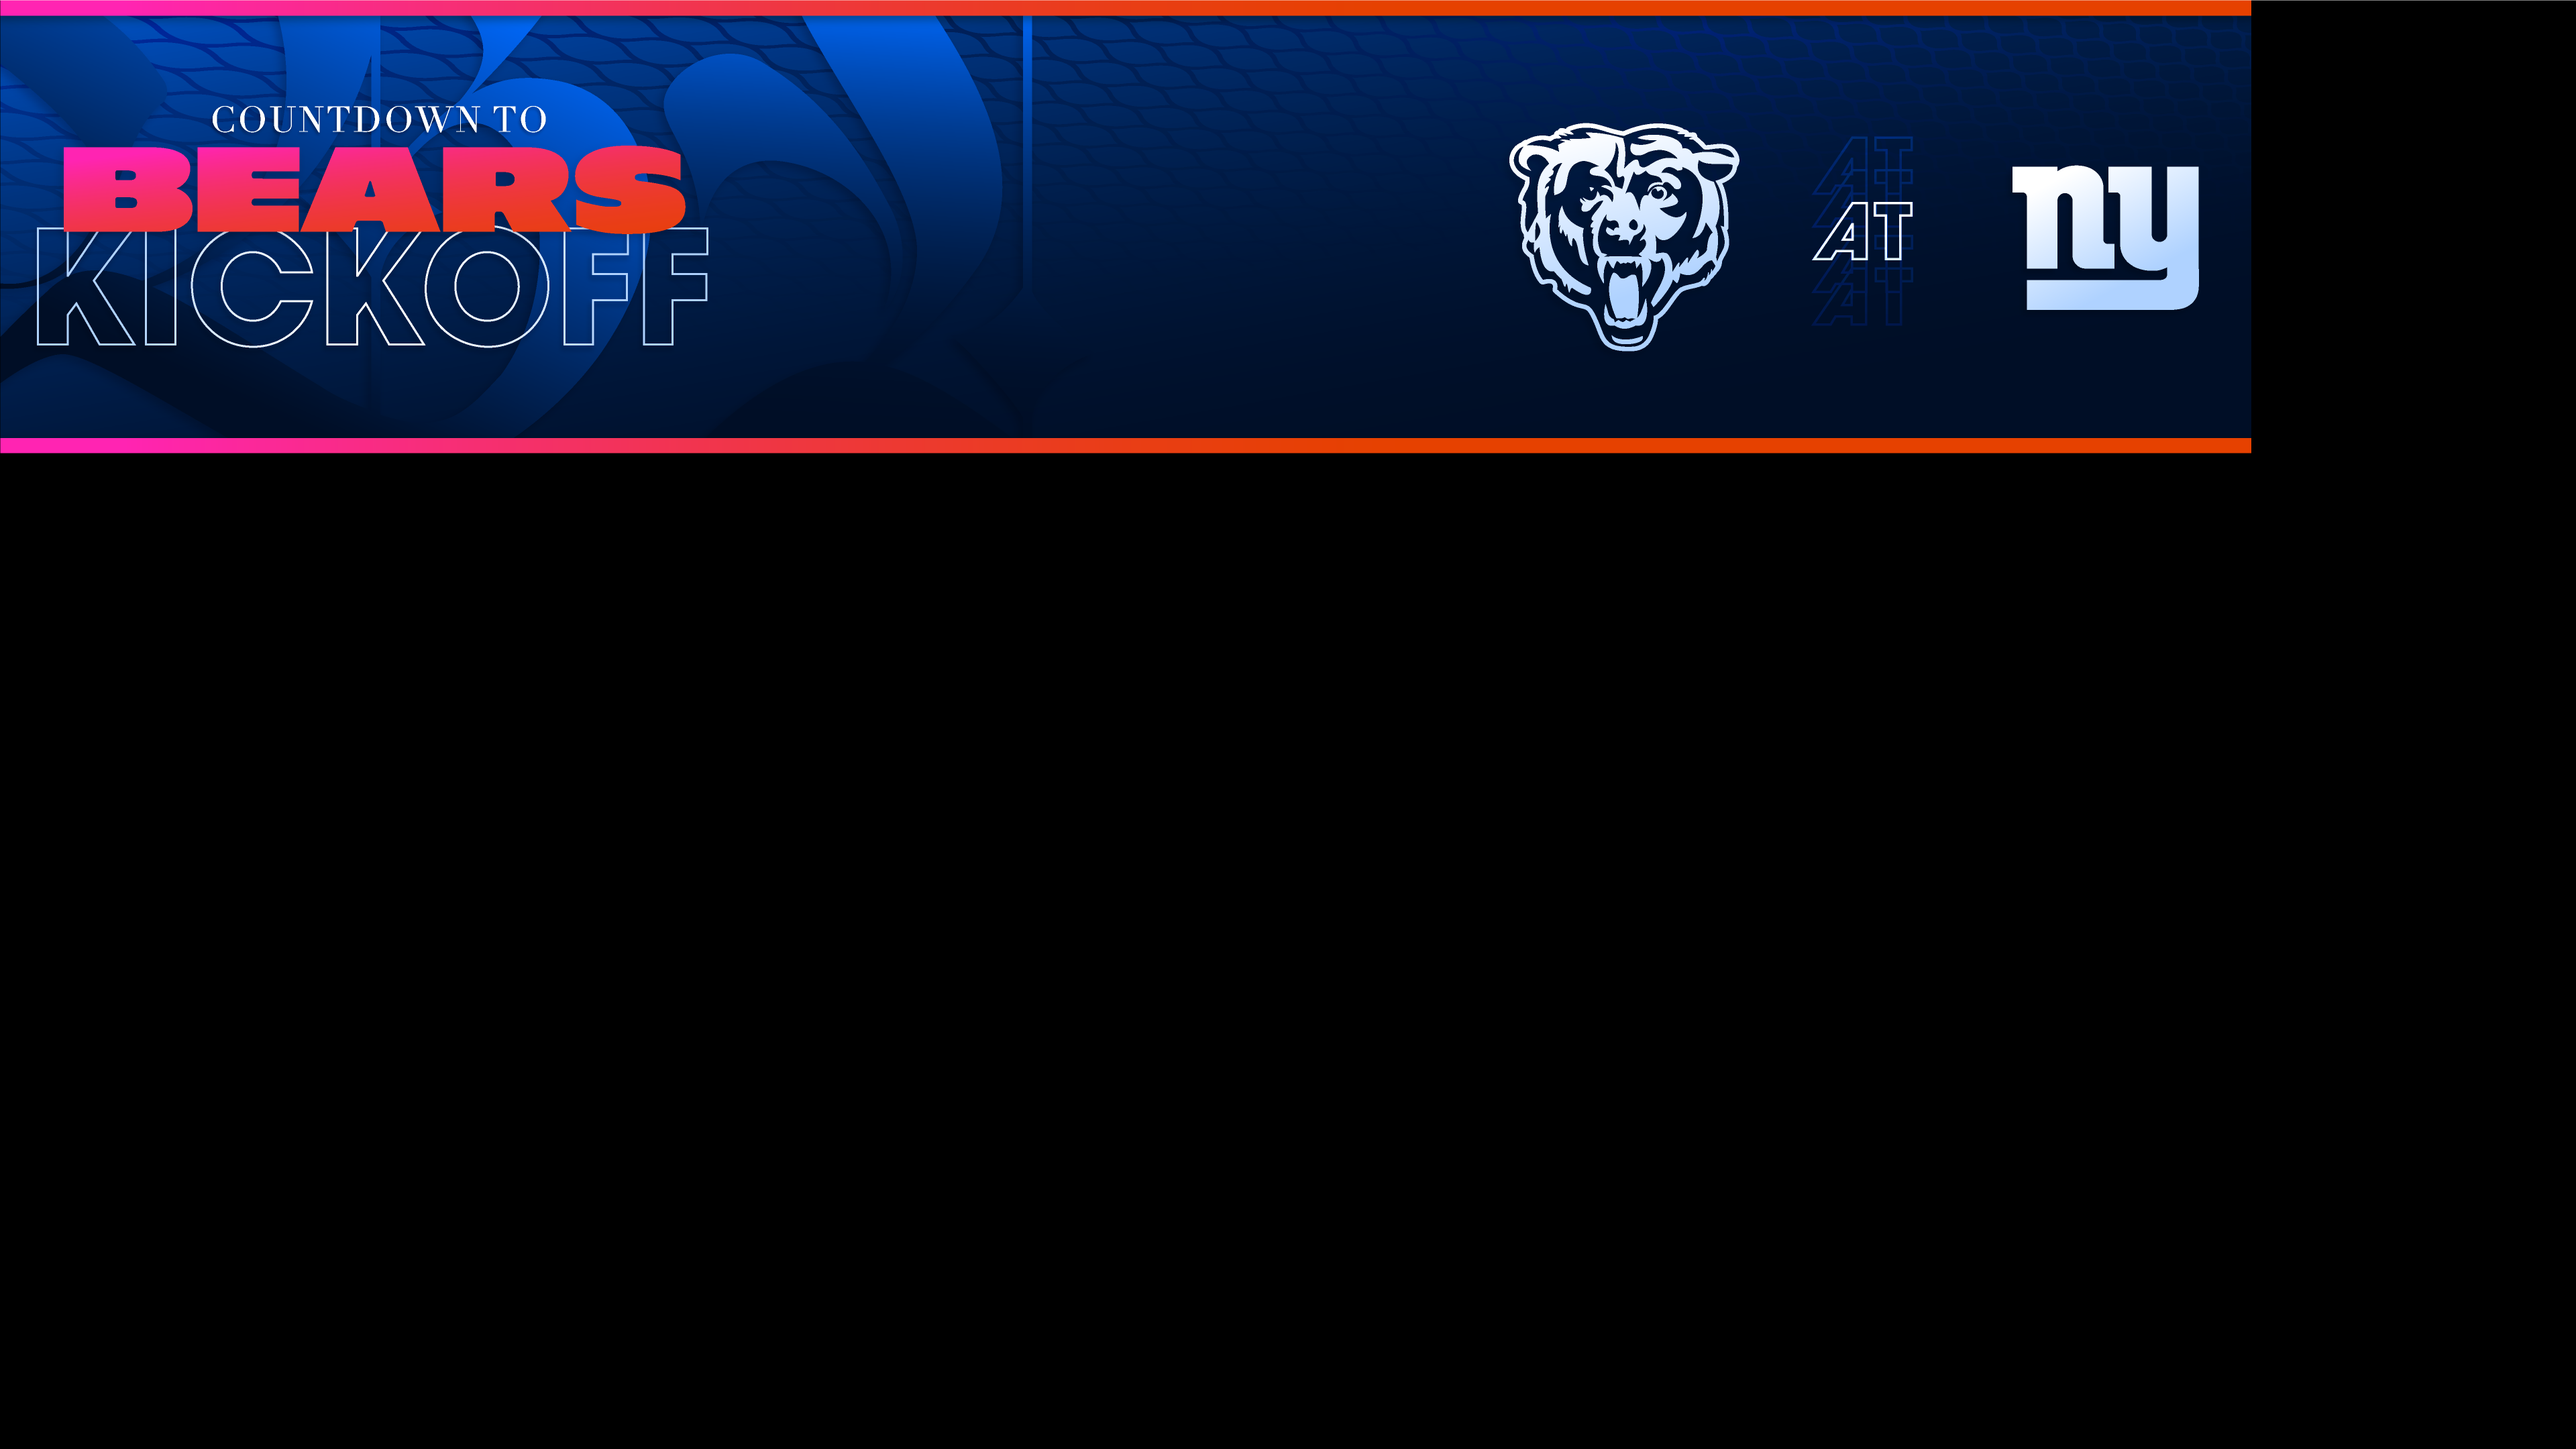
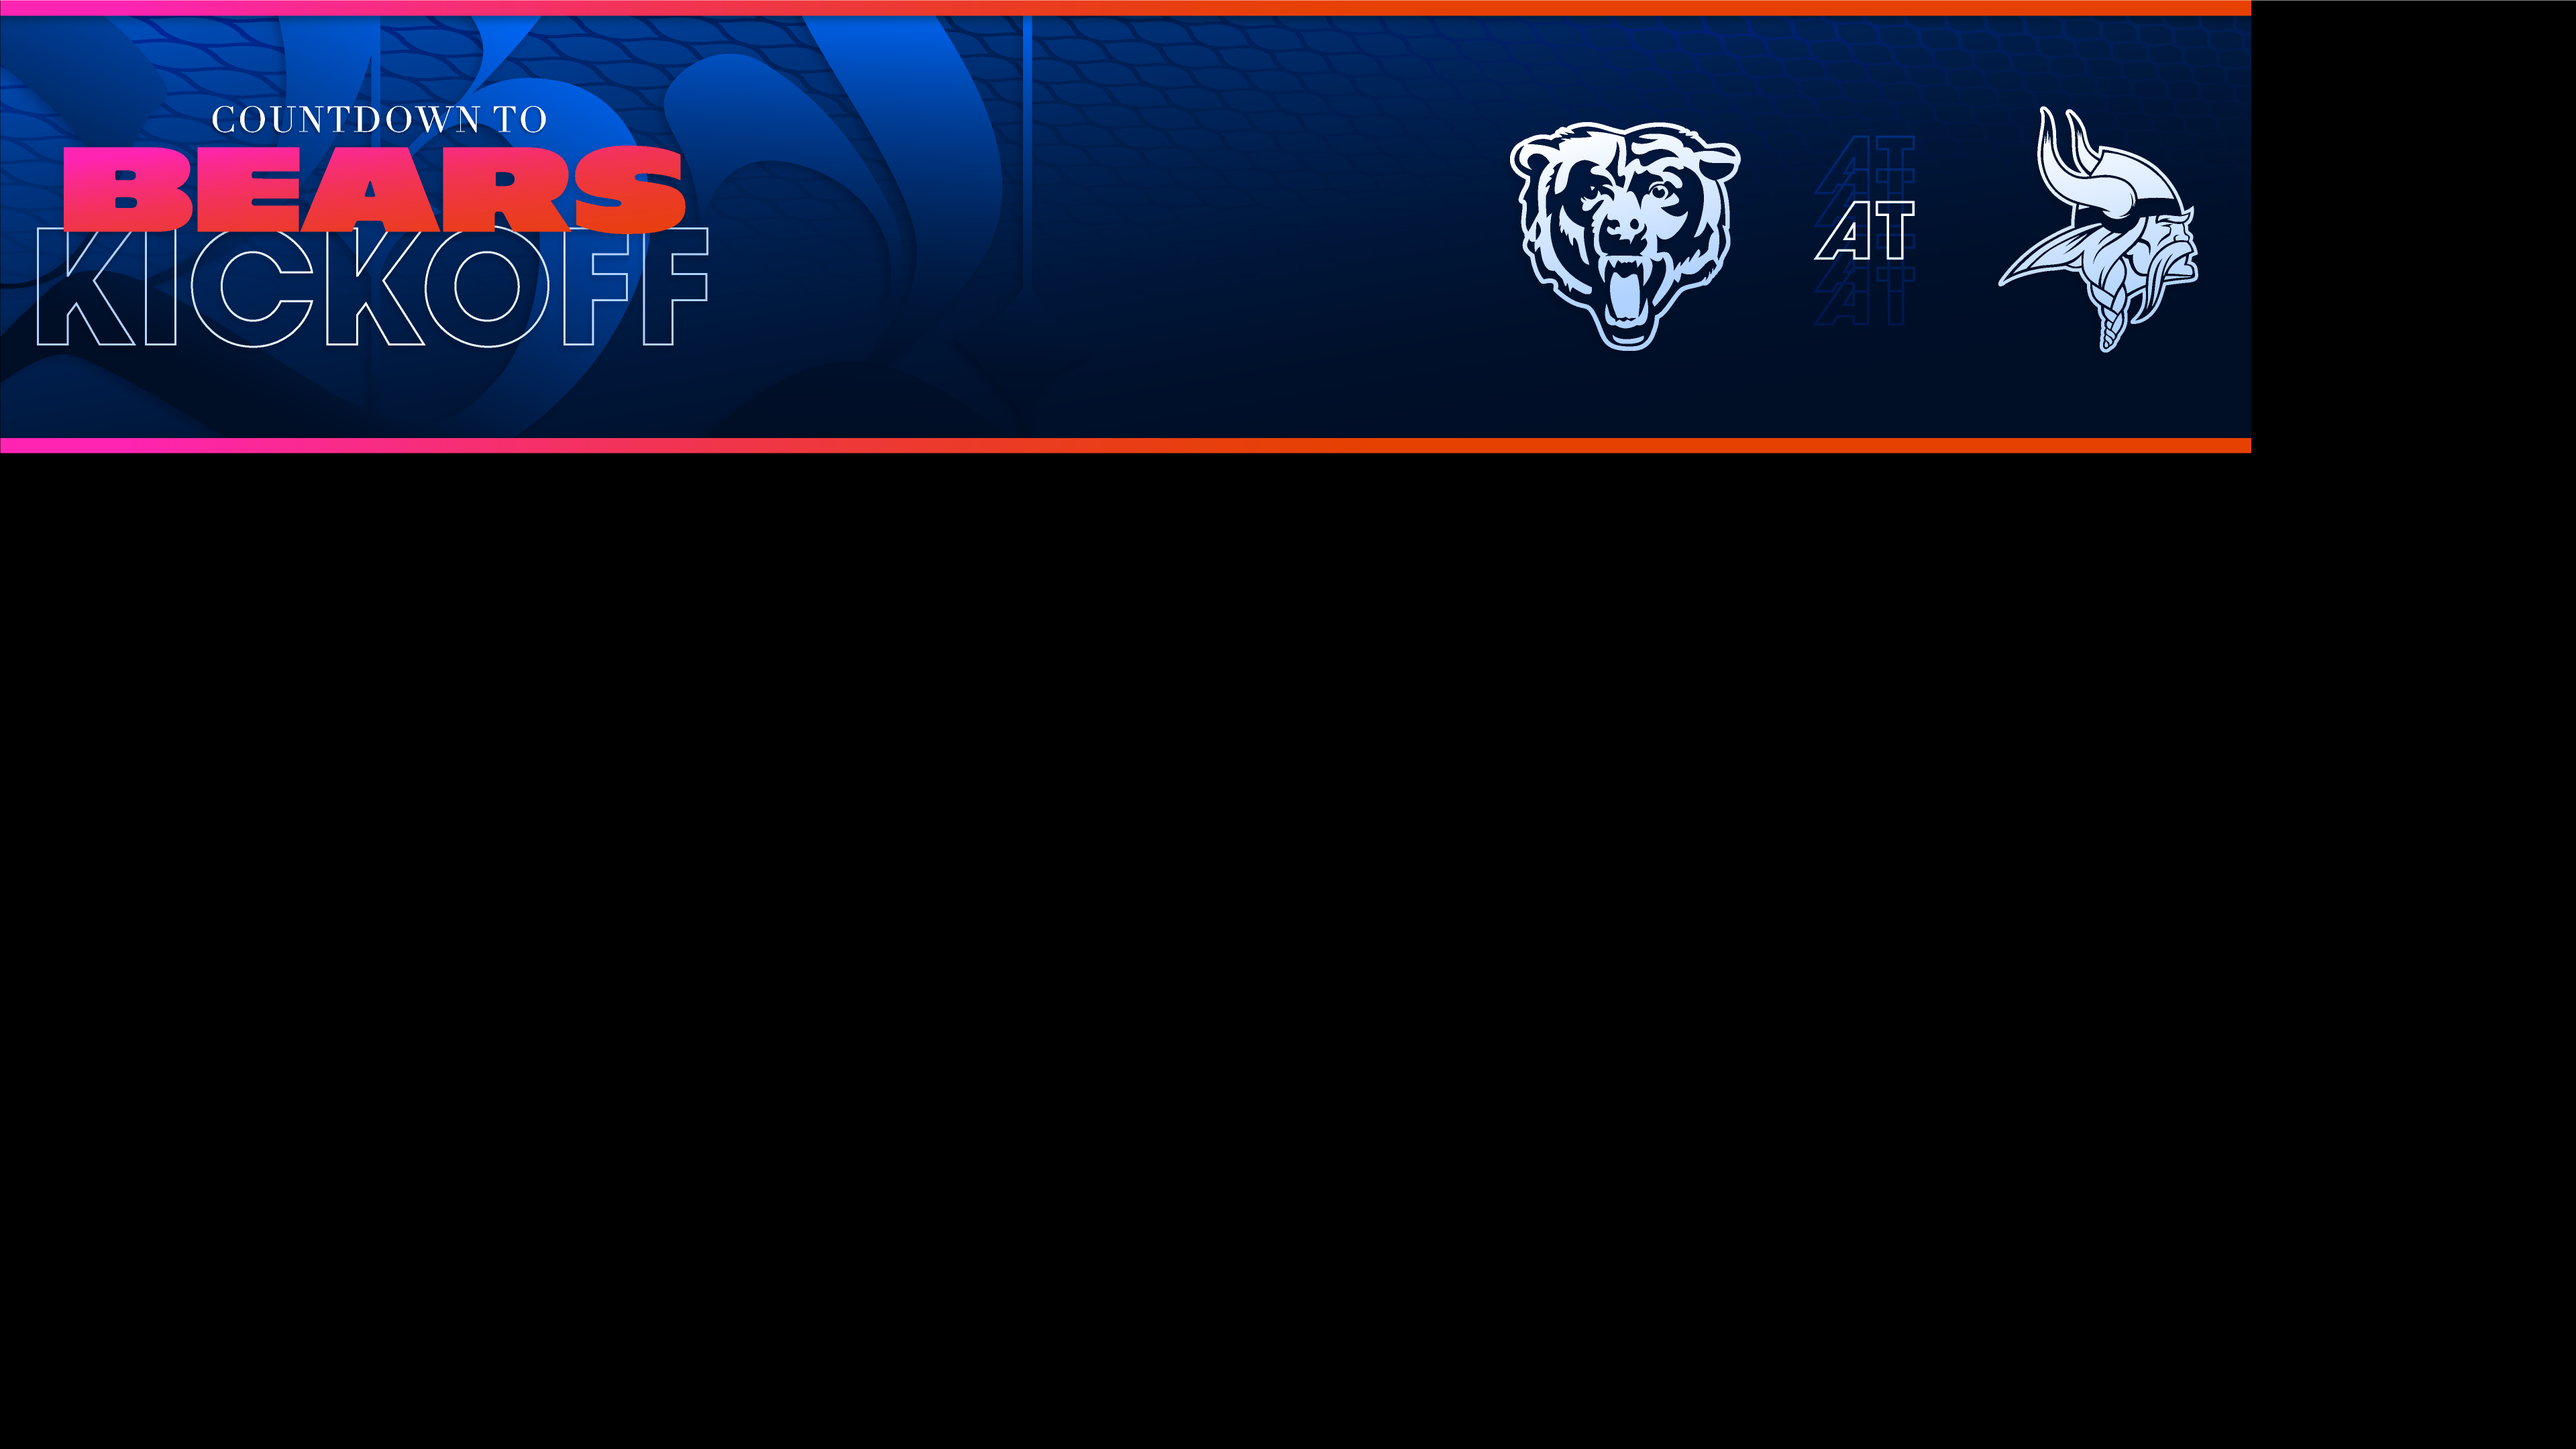
MIN game

Changed region(s): [[0.7812, 0.062, 0.875, 0.2481], [0.5938, 0.0931, 0.6875, 0.2171], [0.6875, 0.0931, 0.75, 0.2171]]

diff --git a/CurrentWeek/Horizontal/script/script.js b/CurrentWeek/Horizontal/script/script.js
@@ -68,9 +68,9 @@ $(document).ready(function(){
 			return futureFormattedDate
 		}
 		//USE 24HR MILITARY TIME
-		//NYG
+		//MIN
 		$("#countdown").countdown({
-			date: "02 October 2022 12:00:00",
+			date: "09 October 2022 12:00:00",
 			format: "on"
 		});
 	});
